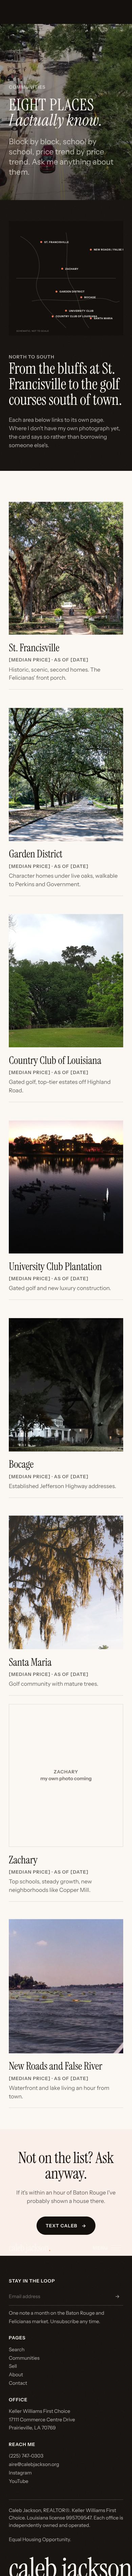
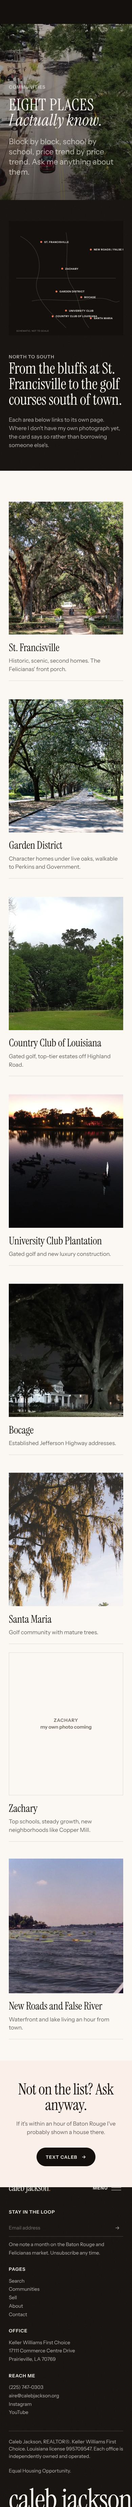
Launch prep: reviews hidden until approved, medians removed, forms wired to a Pages function, go-live plan on Cloudflare
Claude-Session: https://claude.ai/code/session_016PpsPJRozHnoritNauhUvs

diff --git a/website-rebuild/site/communities.html b/website-rebuild/site/communities.html
@@ -61,14 +61,14 @@
 <section class="section" data-surface="light">
   <div class="wrap">
     <div class="cards" data-stagger>
-      <a class="card fade" href="neighborhood-template.html"><div class="reveal"><img src="../media/places/st-francisville-rosedown-house.webp" alt="Rosedown plantation house through the oaks" loading="lazy"></div><h3 class="h3">St. Francisville</h3><p class="ask-line label dim">[median price] &middot; as of [date]</p><p>Historic, scenic, second homes. The Felicianas' front porch.</p></a>
-      <a class="card fade" href="neighborhood-template.html"><div class="reveal"><img src="../media/places/garden-district-kleinert-terrace-oaks.webp" alt="Oak boulevard in the Garden District" loading="lazy"></div><h3 class="h3">Garden District</h3><p class="ask-line label dim">[median price] &middot; as of [date]</p><p>Character homes under live oaks, walkable to Perkins and Government.</p></a>
-      <a class="card fade" href="neighborhood-template.html"><div class="reveal"><img src="../media/places/baton-rouge-highland-road-park.webp" alt="Rolling hills at Highland Road Park" loading="lazy"></div><h3 class="h3">Country Club of Louisiana</h3><p class="ask-line label dim">[median price] &middot; as of [date]</p><p>Gated golf, top-tier estates off Highland Road.</p></a>
-      <a class="card fade" href="neighborhood-template.html"><div class="reveal"><img src="../media/places/baton-rouge-university-lake-sunset.webp" alt="University Lake at sunset" loading="lazy"></div><h3 class="h3">University Club Plantation</h3><p class="ask-line label dim">[median price] &middot; as of [date]</p><p>Gated golf and new luxury construction.</p></a>
-      <a class="card fade" href="neighborhood-template.html"><div class="reveal"><img src="../media/places/baton-rouge-beauregard-town-oak-street.webp" alt="Oak-lined street in Baton Rouge" loading="lazy"></div><h3 class="h3">Bocage</h3><p class="ask-line label dim">[median price] &middot; as of [date]</p><p>Established Jefferson Highway addresses.</p></a>
-      <a class="card fade" href="neighborhood-template.html"><div class="reveal"><img src="../media/places/louisiana-live-oak-spanish-moss.webp" alt="Live oak with Spanish moss" loading="lazy"></div><h3 class="h3">Santa Maria</h3><p class="ask-line label dim">[median price] &middot; as of [date]</p><p>Golf community with mature trees.</p></a>
-      <a class="card fade" href="neighborhood-template.html"><div class="placeholder"><span class="label">Zachary<br><span class="small" style="text-transform:none;letter-spacing:0">my own photo coming</span></span></div><h3 class="h3">Zachary</h3><p class="ask-line label dim">[median price] &middot; as of [date]</p><p>Top schools, steady growth, new neighborhoods like Copper Mill.</p></a>
-      <a class="card fade" href="neighborhood-template.html"><div class="reveal"><img src="../media/places/new-roads-false-river-lotus-2006.webp" alt="Lotus on False River" loading="lazy"></div><h3 class="h3">New Roads and False River</h3><p class="ask-line label dim">[median price] &middot; as of [date]</p><p>Waterfront and lake living an hour from town.</p></a>
+      <a class="card fade" href="neighborhood-template.html"><div class="reveal"><img src="../media/places/st-francisville-rosedown-house.webp" alt="Rosedown plantation house through the oaks" loading="lazy"></div><h3 class="h3">St. Francisville</h3><p>Historic, scenic, second homes. The Felicianas' front porch.</p></a>
+      <a class="card fade" href="neighborhood-template.html"><div class="reveal"><img src="../media/places/garden-district-kleinert-terrace-oaks.webp" alt="Oak boulevard in the Garden District" loading="lazy"></div><h3 class="h3">Garden District</h3><p>Character homes under live oaks, walkable to Perkins and Government.</p></a>
+      <a class="card fade" href="neighborhood-template.html"><div class="reveal"><img src="../media/places/baton-rouge-highland-road-park.webp" alt="Rolling hills at Highland Road Park" loading="lazy"></div><h3 class="h3">Country Club of Louisiana</h3><p>Gated golf, top-tier estates off Highland Road.</p></a>
+      <a class="card fade" href="neighborhood-template.html"><div class="reveal"><img src="../media/places/baton-rouge-university-lake-sunset.webp" alt="University Lake at sunset" loading="lazy"></div><h3 class="h3">University Club Plantation</h3><p>Gated golf and new luxury construction.</p></a>
+      <a class="card fade" href="neighborhood-template.html"><div class="reveal"><img src="../media/places/baton-rouge-beauregard-town-oak-street.webp" alt="Oak-lined street in Baton Rouge" loading="lazy"></div><h3 class="h3">Bocage</h3><p>Established Jefferson Highway addresses.</p></a>
+      <a class="card fade" href="neighborhood-template.html"><div class="reveal"><img src="../media/places/louisiana-live-oak-spanish-moss.webp" alt="Live oak with Spanish moss" loading="lazy"></div><h3 class="h3">Santa Maria</h3><p>Golf community with mature trees.</p></a>
+      <a class="card fade" href="neighborhood-template.html"><div class="placeholder"><span class="label">Zachary<br><span class="small" style="text-transform:none;letter-spacing:0">my own photo coming</span></span></div><h3 class="h3">Zachary</h3><p>Top schools, steady growth, new neighborhoods like Copper Mill.</p></a>
+      <a class="card fade" href="neighborhood-template.html"><div class="reveal"><img src="../media/places/new-roads-false-river-lotus-2006.webp" alt="Lotus on False River" loading="lazy"></div><h3 class="h3">New Roads and False River</h3><p>Waterfront and lake living an hour from town.</p></a>
     </div>
   </div>
 </section>

diff --git a/website-rebuild/site/src/communities.html b/website-rebuild/site/src/communities.html
@@ -51,14 +51,14 @@
 <section class="section" data-surface="light">
   <div class="wrap">
     <div class="cards" data-stagger>
-      <a class="card fade" href="neighborhood-template.html"><div class="reveal"><img src="../media/places/st-francisville-rosedown-house.webp" alt="Rosedown plantation house through the oaks" loading="lazy"></div><h3 class="h3">St. Francisville</h3><p class="ask-line label dim">[median price] &middot; as of [date]</p><p>Historic, scenic, second homes. The Felicianas' front porch.</p></a>
-      <a class="card fade" href="neighborhood-template.html"><div class="reveal"><img src="../media/places/garden-district-kleinert-terrace-oaks.webp" alt="Oak boulevard in the Garden District" loading="lazy"></div><h3 class="h3">Garden District</h3><p class="ask-line label dim">[median price] &middot; as of [date]</p><p>Character homes under live oaks, walkable to Perkins and Government.</p></a>
-      <a class="card fade" href="neighborhood-template.html"><div class="reveal"><img src="../media/places/baton-rouge-highland-road-park.webp" alt="Rolling hills at Highland Road Park" loading="lazy"></div><h3 class="h3">Country Club of Louisiana</h3><p class="ask-line label dim">[median price] &middot; as of [date]</p><p>Gated golf, top-tier estates off Highland Road.</p></a>
-      <a class="card fade" href="neighborhood-template.html"><div class="reveal"><img src="../media/places/baton-rouge-university-lake-sunset.webp" alt="University Lake at sunset" loading="lazy"></div><h3 class="h3">University Club Plantation</h3><p class="ask-line label dim">[median price] &middot; as of [date]</p><p>Gated golf and new luxury construction.</p></a>
-      <a class="card fade" href="neighborhood-template.html"><div class="reveal"><img src="../media/places/baton-rouge-beauregard-town-oak-street.webp" alt="Oak-lined street in Baton Rouge" loading="lazy"></div><h3 class="h3">Bocage</h3><p class="ask-line label dim">[median price] &middot; as of [date]</p><p>Established Jefferson Highway addresses.</p></a>
-      <a class="card fade" href="neighborhood-template.html"><div class="reveal"><img src="../media/places/louisiana-live-oak-spanish-moss.webp" alt="Live oak with Spanish moss" loading="lazy"></div><h3 class="h3">Santa Maria</h3><p class="ask-line label dim">[median price] &middot; as of [date]</p><p>Golf community with mature trees.</p></a>
-      <a class="card fade" href="neighborhood-template.html"><div class="placeholder"><span class="label">Zachary<br><span class="small" style="text-transform:none;letter-spacing:0">my own photo coming</span></span></div><h3 class="h3">Zachary</h3><p class="ask-line label dim">[median price] &middot; as of [date]</p><p>Top schools, steady growth, new neighborhoods like Copper Mill.</p></a>
-      <a class="card fade" href="neighborhood-template.html"><div class="reveal"><img src="../media/places/new-roads-false-river-lotus-2006.webp" alt="Lotus on False River" loading="lazy"></div><h3 class="h3">New Roads and False River</h3><p class="ask-line label dim">[median price] &middot; as of [date]</p><p>Waterfront and lake living an hour from town.</p></a>
+      <a class="card fade" href="neighborhood-template.html"><div class="reveal"><img src="../media/places/st-francisville-rosedown-house.webp" alt="Rosedown plantation house through the oaks" loading="lazy"></div><h3 class="h3">St. Francisville</h3><p>Historic, scenic, second homes. The Felicianas' front porch.</p></a>
+      <a class="card fade" href="neighborhood-template.html"><div class="reveal"><img src="../media/places/garden-district-kleinert-terrace-oaks.webp" alt="Oak boulevard in the Garden District" loading="lazy"></div><h3 class="h3">Garden District</h3><p>Character homes under live oaks, walkable to Perkins and Government.</p></a>
+      <a class="card fade" href="neighborhood-template.html"><div class="reveal"><img src="../media/places/baton-rouge-highland-road-park.webp" alt="Rolling hills at Highland Road Park" loading="lazy"></div><h3 class="h3">Country Club of Louisiana</h3><p>Gated golf, top-tier estates off Highland Road.</p></a>
+      <a class="card fade" href="neighborhood-template.html"><div class="reveal"><img src="../media/places/baton-rouge-university-lake-sunset.webp" alt="University Lake at sunset" loading="lazy"></div><h3 class="h3">University Club Plantation</h3><p>Gated golf and new luxury construction.</p></a>
+      <a class="card fade" href="neighborhood-template.html"><div class="reveal"><img src="../media/places/baton-rouge-beauregard-town-oak-street.webp" alt="Oak-lined street in Baton Rouge" loading="lazy"></div><h3 class="h3">Bocage</h3><p>Established Jefferson Highway addresses.</p></a>
+      <a class="card fade" href="neighborhood-template.html"><div class="reveal"><img src="../media/places/louisiana-live-oak-spanish-moss.webp" alt="Live oak with Spanish moss" loading="lazy"></div><h3 class="h3">Santa Maria</h3><p>Golf community with mature trees.</p></a>
+      <a class="card fade" href="neighborhood-template.html"><div class="placeholder"><span class="label">Zachary<br><span class="small" style="text-transform:none;letter-spacing:0">my own photo coming</span></span></div><h3 class="h3">Zachary</h3><p>Top schools, steady growth, new neighborhoods like Copper Mill.</p></a>
+      <a class="card fade" href="neighborhood-template.html"><div class="reveal"><img src="../media/places/new-roads-false-river-lotus-2006.webp" alt="Lotus on False River" loading="lazy"></div><h3 class="h3">New Roads and False River</h3><p>Waterfront and lake living an hour from town.</p></a>
     </div>
   </div>
 </section>

diff --git a/website-rebuild/site/assets/site.js b/website-rebuild/site/assets/site.js
@@ -123,12 +123,26 @@
   /* ---------- engagement previews: forms show their done state, nothing is sent yet ---------- */
   document.querySelectorAll('form[data-preview]').forEach(function (f) {
     var done = document.createElement('p'); done.className = 'done'; done.textContent = f.dataset.done || 'Got it.'; f.appendChild(done);
-    f.addEventListener('submit', function (e) { e.preventDefault(); if (!f.checkValidity()) { f.reportValidity(); return; } f.classList.add('is-done'); });
+    f.addEventListener('submit', function (e) {
+      e.preventDefault(); if (!f.checkValidity()) { f.reportValidity(); return; }
+      var btn = f.querySelector('button[type=submit]'); if (btn) btn.disabled = true;
+      sendLead(f.getAttribute('aria-label') || 'form', f).then(function () { f.classList.add('is-done'); }).catch(function () {
+        if (btn) btn.disabled = false;
+        done.textContent = "That didn't go through. Text me instead: (225) 747-0303."; f.classList.add('is-done');
+      });
+    });
   });
+  /* leads go to /api/lead (a Cloudflare Pages function that forwards to Caleb). Local previews have no API, so they resolve after a beat. */
+  function sendLead(kind, form) {
+    var data = { kind: kind, page: location.pathname, at: new Date().toISOString() };
+    new FormData(form).forEach(function (v, k) { data[k] = v; });
+    if (location.protocol === 'file:' || /localhost|127\.0\.0\.1|claude\.ai|artifact/.test(location.host)) return new Promise(function (r) { setTimeout(r, 400); });
+    return fetch('/api/lead', { method: 'POST', headers: { 'Content-Type': 'application/json' }, body: JSON.stringify(data) }).then(function (r) { if (!r.ok) throw new Error(r.status); });
+  }
   var news = document.querySelector('.news');
   if (news) {
     var nd = document.createElement('p'); nd.className = 'news-done small'; nd.textContent = "You're on the list. One note a month, nothing else."; news.after(nd);
-    news.addEventListener('submit', function (e) { e.preventDefault(); if (!news.checkValidity()) { news.reportValidity(); return; } news.classList.add('is-done'); nd.classList.add('is-on'); });
+    news.addEventListener('submit', function (e) { e.preventDefault(); if (!news.checkValidity()) { news.reportValidity(); return; } sendLead('newsletter', news).then(function () { news.classList.add('is-done'); nd.classList.add('is-on'); }).catch(function () { nd.textContent = "That didn't go through. Email aire@calebjackson.org and I'll add you."; nd.classList.add('is-on'); }); });
   }
   var bd = document.getElementById('bookDays'), bs = document.getElementById('bookSlots'), bsl = document.getElementById('bookSlot');
   if (bd && bs) {

diff --git a/website-rebuild/functions/api/lead.js b/website-rebuild/functions/api/lead.js
@@ -1,0 +1,31 @@
+// Cloudflare Pages Function: POST /api/lead
+// Takes the JSON a site form sends, checks it, and forwards it to LEAD_WEBHOOK
+// (a Google Apps Script web app that logs to a Sheet and emails or texts Caleb).
+// Set LEAD_WEBHOOK in the Pages project's environment variables. Nothing is stored here.
+export async function onRequestPost({ request, env }) {
+  let data;
+  try { data = await request.json(); } catch (e) { return json({ ok: false, error: 'bad json' }, 400); }
+  const kind = String(data.kind || 'form').slice(0, 60);
+  const phone = String(data.phone || '').replace(/[^\d+]/g, '');
+  const email = String(data.email || '').trim();
+  if (!phone && !email) return json({ ok: false, error: 'need a phone or email' }, 400);
+  if (data.website) return json({ ok: true }); // honeypot field, bots fill it
+  const payload = {
+    kind, phone, email,
+    name: String(data.name || '').slice(0, 120),
+    address: String(data.address || '').slice(0, 200),
+    area: String(data.area || '').slice(0, 80),
+    max: String(data.max || '').slice(0, 40),
+    when: String(data.when || '').slice(0, 60),
+    slot: String(data.slot || '').slice(0, 60),
+    message: String(data.message || '').slice(0, 2000),
+    consent: data.consent ? 'yes' : 'no',
+    page: String(data.page || ''), at: String(data.at || new Date().toISOString()),
+    ip: request.headers.get('cf-connecting-ip') || '', ua: (request.headers.get('user-agent') || '').slice(0, 200),
+  };
+  if (!env.LEAD_WEBHOOK) return json({ ok: false, error: 'LEAD_WEBHOOK not set' }, 500);
+  const r = await fetch(env.LEAD_WEBHOOK, { method: 'POST', headers: { 'Content-Type': 'application/json' }, body: JSON.stringify(payload) });
+  if (!r.ok) return json({ ok: false, error: 'webhook ' + r.status }, 502);
+  return json({ ok: true });
+}
+function json(obj, status = 200) { return new Response(JSON.stringify(obj), { status, headers: { 'Content-Type': 'application/json', 'Cache-Control': 'no-store' } }); }

diff --git a/website-rebuild/site/contact.html b/website-rebuild/site/contact.html
@@ -42,7 +42,6 @@
         <label><span class="label dim">What's going on</span><textarea name="message" rows="4" placeholder="Buying, selling, or just a question about an address"></textarea></label>
         <label class="small dim" style="display:flex;gap:1rem;align-items:flex-start"><input type="checkbox" name="consent" style="width:auto"> <span>It's OK to text me back at the number above. Reply STOP any time to end texts.</span></label>
         <div><button class="pill inverse" type="submit"><span class="t"><span>Send</span><span>Send it</span></span><span class="arrow">&rarr;</span></button></div>
-        <p class="small dim">Form delivery is wired at launch. Until then, the number above is fastest.</p>
       </form>
     </div>
   </div>
@@ -54,7 +53,7 @@
     <div>
       <span class="label eyebrow dim">Book a call</span>
       <h2 class="h2 words">Fifteen minutes. Pick a time.</h2>
-      <p class="col-copy dim measure fade">Don't like texting first? Pick a slot and I'll call you. Preview: at launch this is backed by a live calendar so a booked slot is a real one.</p>
+      <p class="col-copy dim measure fade">Don't like texting first? Pick a slot and I'll call you. I confirm the slot by text within the hour, so it's a real appointment once you hear back.</p>
     </div>
     <form class="form fade booker" data-preview data-done="Booked. You'll get a text confirming the time, and I'll call you then." aria-label="Pick a time">
       <div class="days" id="bookDays" aria-label="Day"></div>

diff --git a/website-rebuild/site/src/contact.html b/website-rebuild/site/src/contact.html
@@ -32,7 +32,6 @@
         <label><span class="label dim">What's going on</span><textarea name="message" rows="4" placeholder="Buying, selling, or just a question about an address"></textarea></label>
         <label class="small dim" style="display:flex;gap:1rem;align-items:flex-start"><input type="checkbox" name="consent" style="width:auto"> <span>It's OK to text me back at the number above. Reply STOP any time to end texts.</span></label>
         <div><button class="pill inverse" type="submit"><span class="t"><span>Send</span><span>Send it</span></span><span class="arrow">&rarr;</span></button></div>
-        <p class="small dim">Form delivery is wired at launch. Until then, the number above is fastest.</p>
       </form>
     </div>
   </div>
@@ -44,7 +43,7 @@
     <div>
       <span class="label eyebrow dim">Book a call</span>
       <h2 class="h2 words">Fifteen minutes. Pick a time.</h2>
-      <p class="col-copy dim measure fade">Don't like texting first? Pick a slot and I'll call you. Preview: at launch this is backed by a live calendar so a booked slot is a real one.</p>
+      <p class="col-copy dim measure fade">Don't like texting first? Pick a slot and I'll call you. I confirm the slot by text within the hour, so it's a real appointment once you hear back.</p>
     </div>
     <form class="form fade booker" data-preview data-done="Booked. You'll get a text confirming the time, and I'll call you then." aria-label="Pick a time">
       <div class="days" id="bookDays" aria-label="Day"></div>

diff --git a/website-rebuild/site/search.html b/website-rebuild/site/search.html
@@ -55,7 +55,6 @@
       <label><span class="label dim">Mobile number</span><input type="tel" name="phone" autocomplete="tel" required></label>
       <label class="small dim" style="display:flex;gap:1rem;align-items:flex-start"><input type="checkbox" name="consent" style="width:auto" required> <span>Text me new listings at this number. Reply STOP any time to end texts.</span></label>
       <div><button class="pill" type="submit"><span class="t"><span>Start my alerts</span><span>One text per hit</span></span><span class="arrow">&rarr;</span></button></div>
-      <p class="small dim">Preview. At launch this creates a saved search in the IDX and the text comes from Caleb.</p>
     </form>
   </div>
 </section>

diff --git a/website-rebuild/site/src/search.html b/website-rebuild/site/src/search.html
@@ -45,7 +45,6 @@
       <label><span class="label dim">Mobile number</span><input type="tel" name="phone" autocomplete="tel" required></label>
       <label class="small dim" style="display:flex;gap:1rem;align-items:flex-start"><input type="checkbox" name="consent" style="width:auto" required> <span>Text me new listings at this number. Reply STOP any time to end texts.</span></label>
       <div><button class="pill" type="submit"><span class="t"><span>Start my alerts</span><span>One text per hit</span></span><span class="arrow">&rarr;</span></button></div>
-      <p class="small dim">Preview. At launch this creates a saved search in the IDX and the text comes from Caleb.</p>
     </form>
   </div>
 </section>

diff --git a/website-rebuild/site/sell.html b/website-rebuild/site/sell.html
@@ -54,7 +54,6 @@
       </div>
       <label class="small dim" style="display:flex;gap:1rem;align-items:flex-start"><input type="checkbox" name="consent" style="width:auto" required> <span>Text me the number at this mobile. Reply STOP any time to end texts.</span></label>
       <div><button class="pill inverse" type="submit"><span class="t"><span>Text me my number</span><span>Today</span></span><span class="arrow">&rarr;</span></button></div>
-      <p class="small dim">Preview. Form delivery is wired at launch.</p>
     </form>
   </div>
 </section>

diff --git a/website-rebuild/site/src/sell.html b/website-rebuild/site/src/sell.html
@@ -44,7 +44,6 @@
       </div>
       <label class="small dim" style="display:flex;gap:1rem;align-items:flex-start"><input type="checkbox" name="consent" style="width:auto" required> <span>Text me the number at this mobile. Reply STOP any time to end texts.</span></label>
       <div><button class="pill inverse" type="submit"><span class="t"><span>Text me my number</span><span>Today</span></span><span class="arrow">&rarr;</span></button></div>
-      <p class="small dim">Preview. Form delivery is wired at launch.</p>
     </form>
   </div>
 </section>

diff --git a/website-rebuild/site/about.html b/website-rebuild/site/about.html
@@ -62,7 +62,7 @@
 </section>
 
 <!-- Reviews: Google-style template. Every card is a placeholder until a client approves their words. -->
-<section class="section ui-blush" data-surface="light" aria-label="Client reviews">
+<section class="section ui-blush" data-surface="light" aria-label="Client reviews" hidden data-until="reviews approved">
   <div class="wrap">
     <div class="reviews-head">
       <h2 class="h2 words">Don't take <span class="italic-word">my word for it.</span></h2>

diff --git a/website-rebuild/site/src/about.html b/website-rebuild/site/src/about.html
@@ -52,7 +52,7 @@
 </section>
 
 <!-- Reviews: Google-style template. Every card is a placeholder until a client approves their words. -->
-<section class="section ui-blush" data-surface="light" aria-label="Client reviews">
+<section class="section ui-blush" data-surface="light" aria-label="Client reviews" hidden data-until="reviews approved">
   <div class="wrap">
     <div class="reviews-head">
       <h2 class="h2 words">Don't take <span class="italic-word">my word for it.</span></h2>
